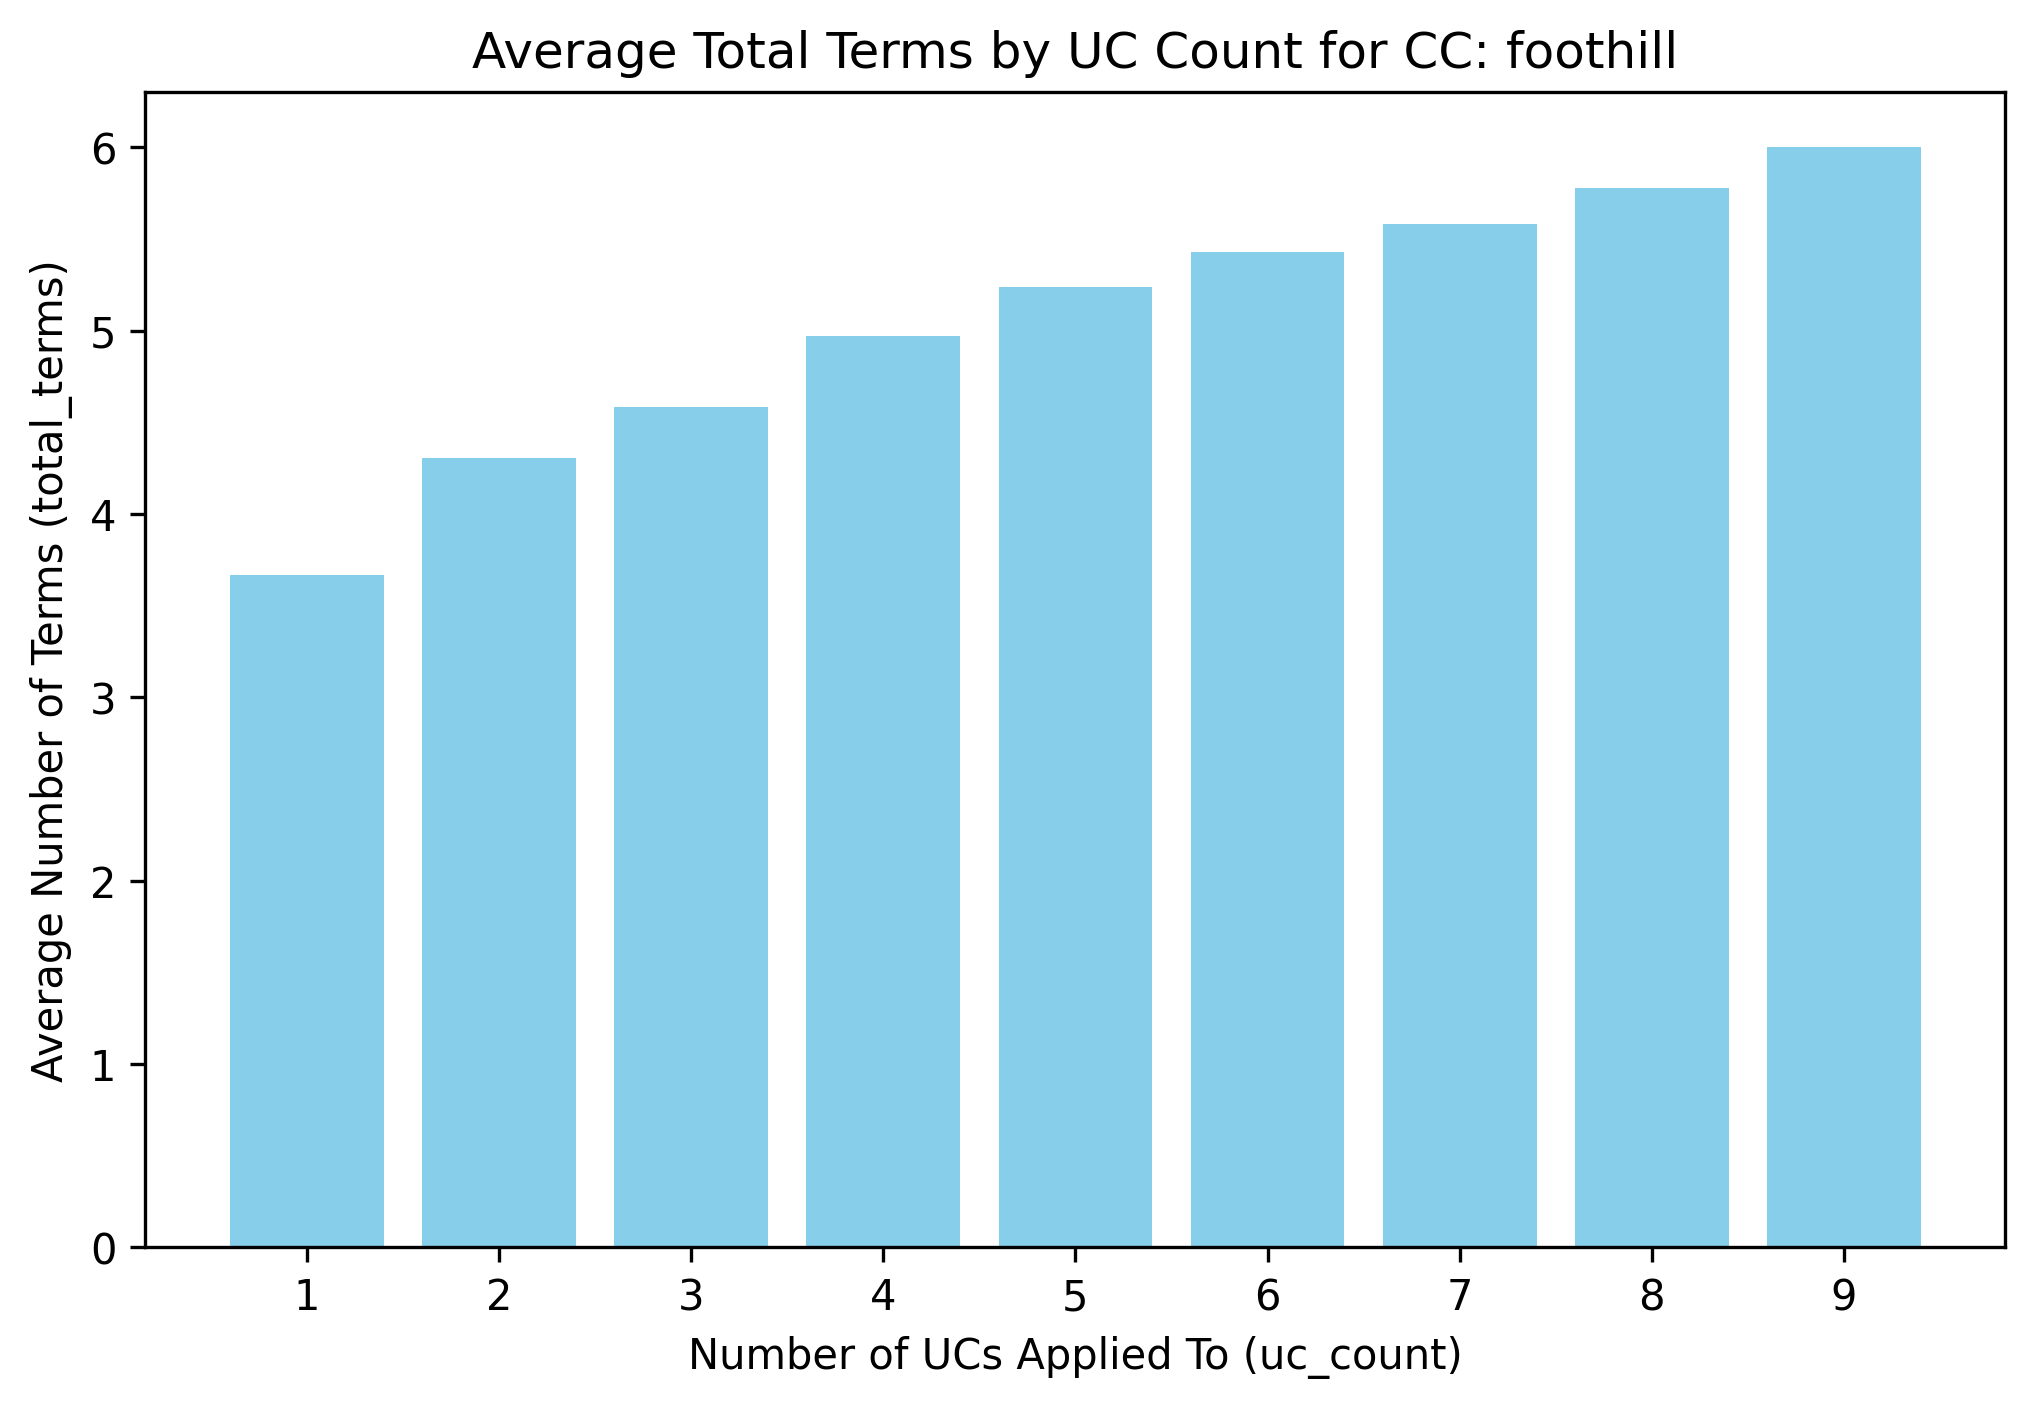
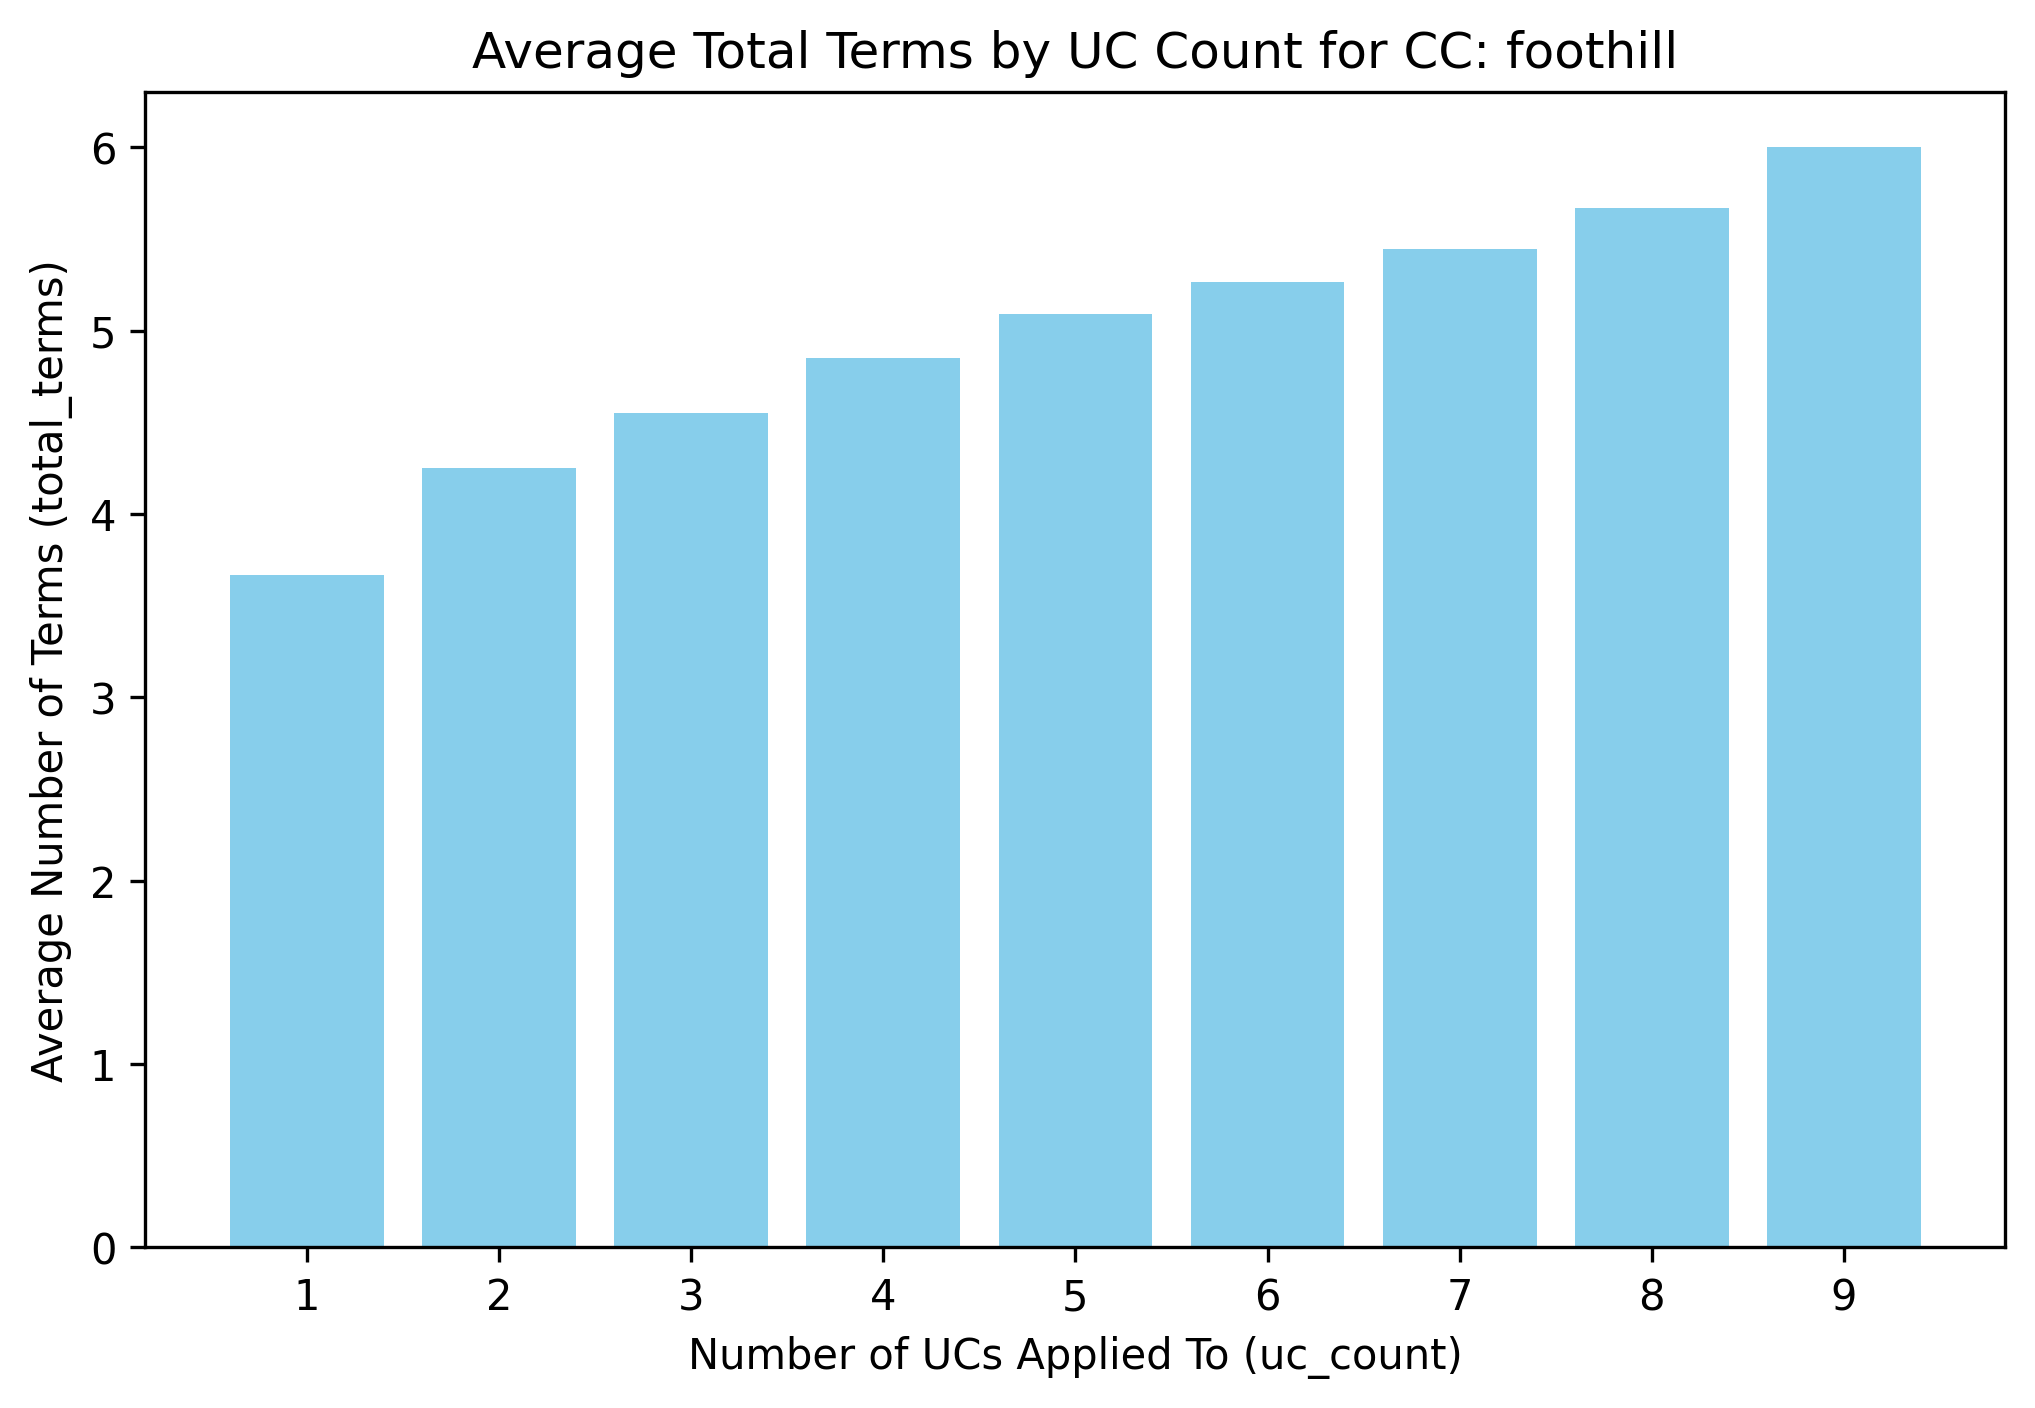
updated the quarter ccs

diff --git a/question_4/scripts-for-figures/per_cc_1-9_ucs.py b/question_4/scripts-for-figures/per_cc_1-9_ucs.py
@@ -3,7 +3,7 @@ import pandas as pd
 import matplotlib.pyplot as plt
 
 # Replace this with the path to your JSON file
-json_file_path = "/Users/yasminkabir/GitHub/transfer-agreements-analysis-4/question_4/data/18_units_automation_results/palomar/palomar_IGETC_20250808_094422.json"
+json_file_path = "/Users/yasminkabir/GitHub/transfer-agreements-analysis-4/question_4/data/intense_workload/foothill/foothill_IGETC_20250808_111729.json"
 
 # Load JSON data from file
 with open(json_file_path, 'r') as f:
